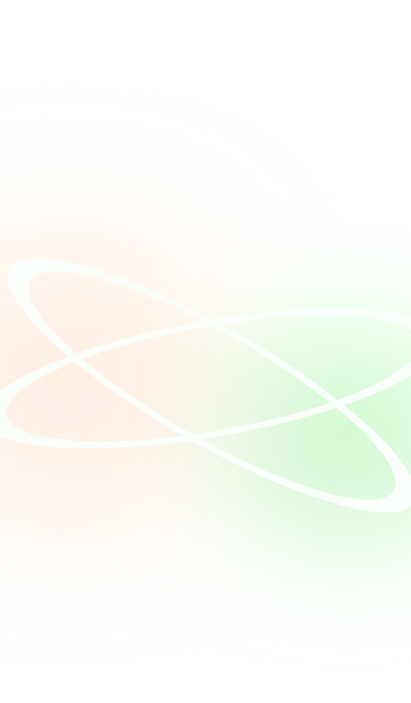
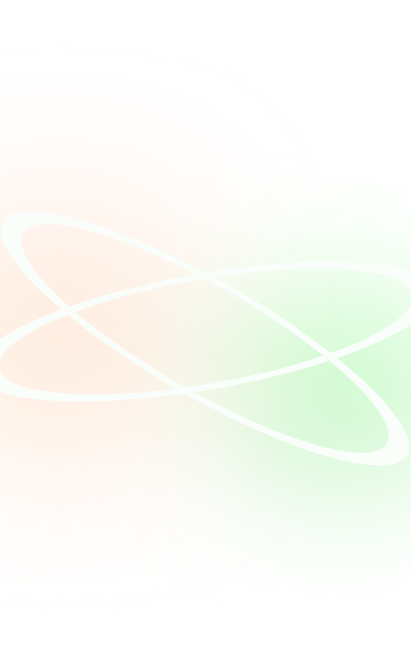
added background to made in india section

Changed region(s): [[0.6131, 0.4878, 0.9927, 0.7317], [0.6423, 0.6402, 0.7007, 0.6707]]

diff --git a/duopods.css b/duopods.css
@@ -675,7 +675,7 @@ body {
     background-image: url("assets/made-in-india-background.png");
     background-repeat: no-repeat;
     z-index: -1;
-    top: 4rem;
+    top: 5rem;
     background-position: center;
     background-size: cover;
   }
@@ -1145,6 +1145,23 @@ body {
     margin: 30px auto;
     width: 580px;
   }
+  .india-background {
+    width: 100%;
+height: 100%;
+position: absolute;
+background-image: url("assets/tri-color-background.png");
+background-repeat: no-repeat;
+background-position: center;
+background-size: cover;
+top: 14rem;
+left: 0.2rem;
+
+  }
+}
+@media(min-width: 768px) and (max-width: 1120px) {
+.india-background {
+  top: 15rem;
+  left: 1.5rem;
 }
 @media (min-width: 1024px) {
   .sound-feature-image-div {
